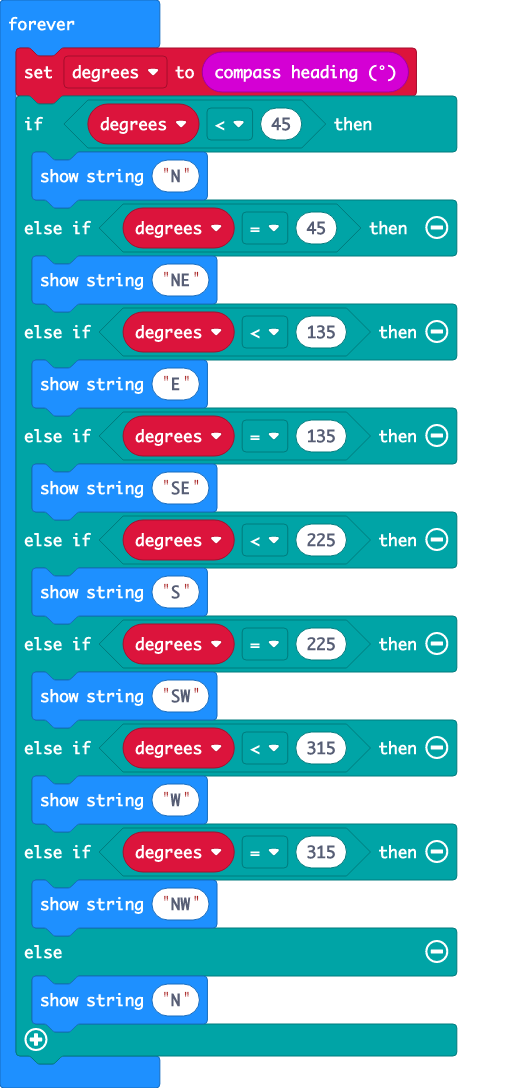
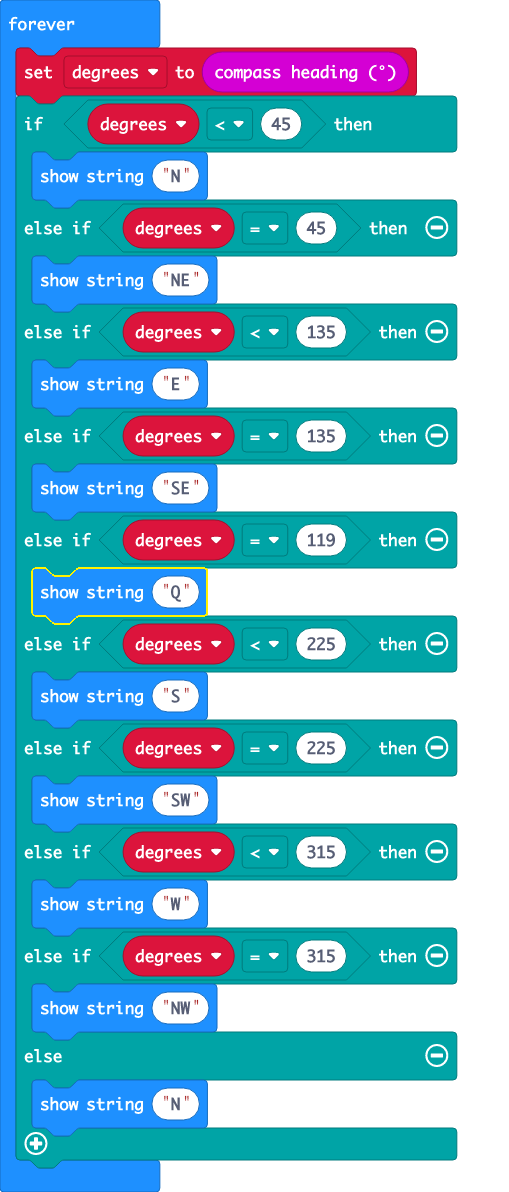
Update main.blocks, main.ts

diff --git a/main.ts b/main.ts
@@ -9,6 +9,8 @@ basic.forever(function () {
         basic.showString("E")
     } else if (degrees == 135) {
         basic.showString("SE")
+    } else if (degrees == 119) {
+        basic.showString("Q")
     } else if (degrees < 225) {
         basic.showString("S")
     } else if (degrees == 225) {
